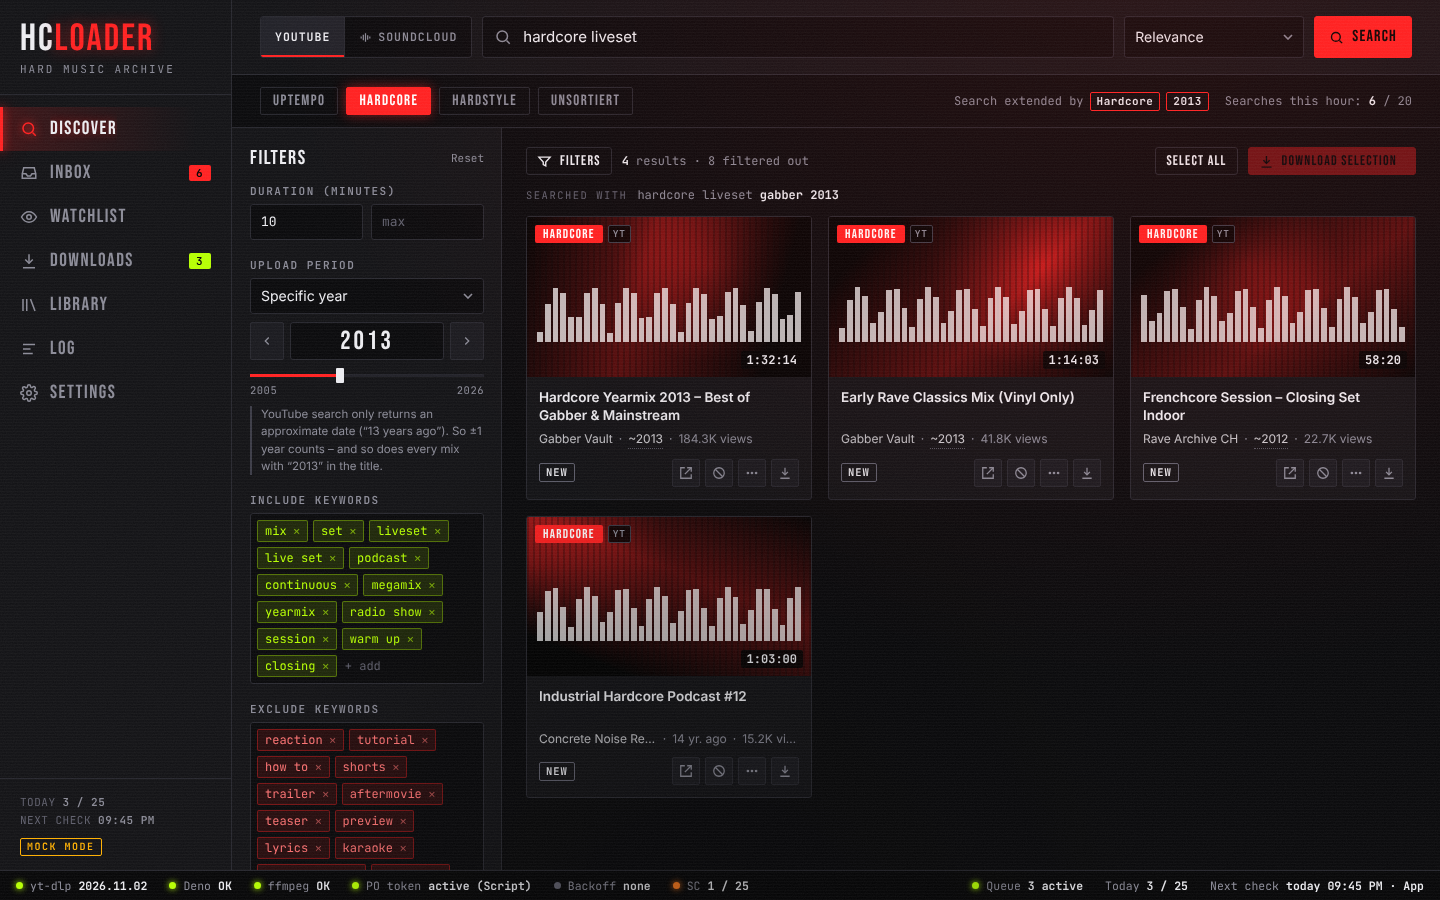
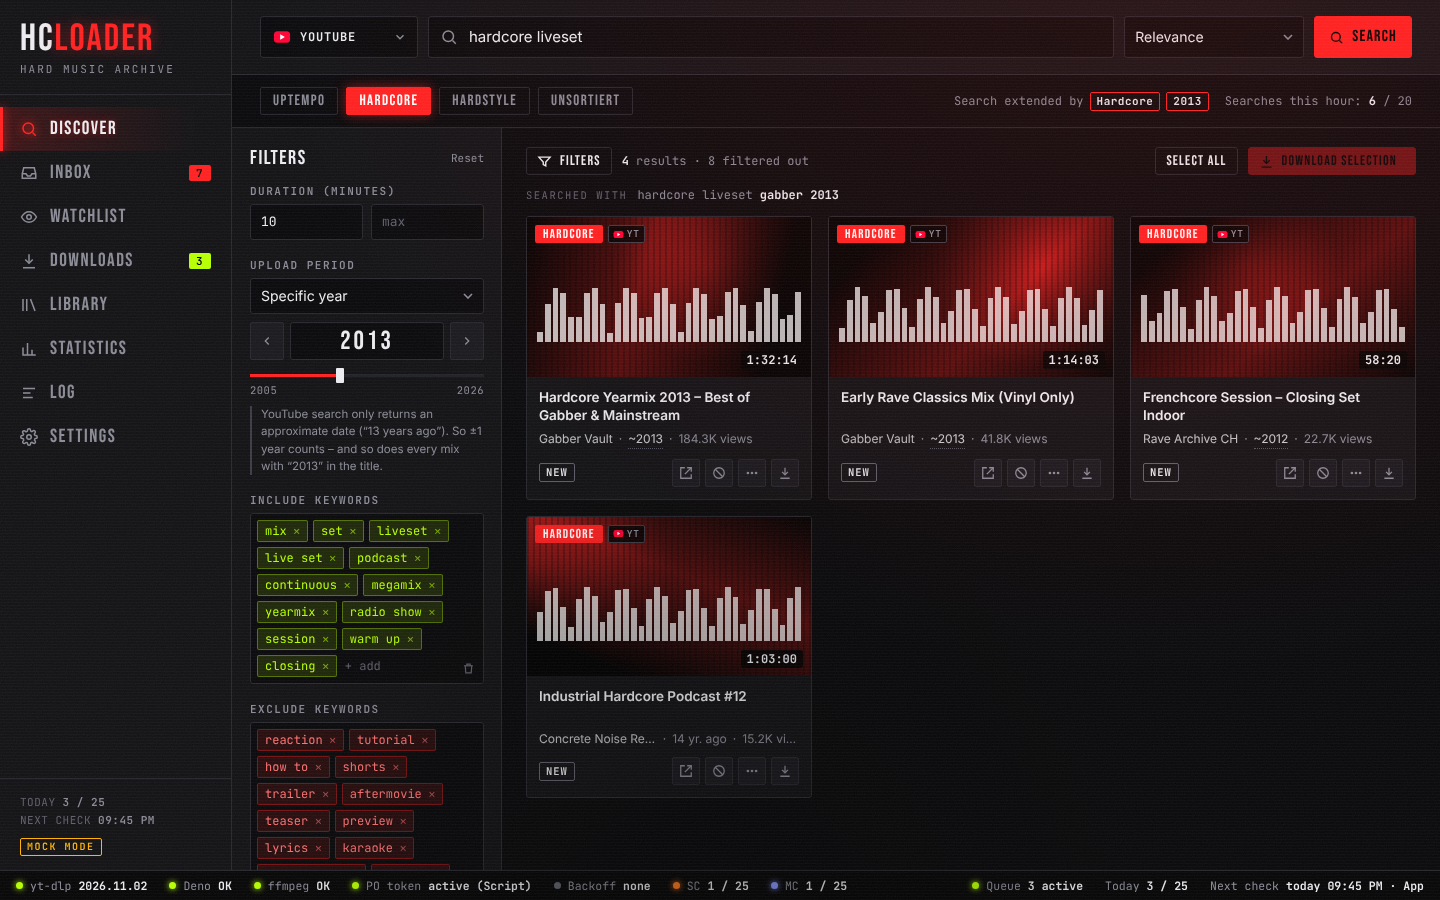
feat(ui): collapsible platform selector with "All", keyword clear/undo and suggestions
Discover: the platform tabs become a compact dropdown (logo + name, keyboard
accessible, remembered choice). "All" searches every enabled platform strictly
one after another through the per-platform search call, skips platforms in
backoff with a note and merges the hits with platform badges. Keyword boxes get
a "remove all" button with an undo toast and suggestion chips from the saved
settings. Platform logos are bundled locally; tests, screenshots and wiki updated.

Claude-Session: https://claude.ai/code/session_01ShQsUFch3Qm8jFDuGQkccp

diff --git a/ui/css/components.css b/ui/css/components.css
@@ -1930,7 +1930,7 @@ button.tk-time:hover,button.tk-time:focus-visible{border-color:var(--acid);backg
 .kwbox{position:relative}
 .kwbox .tags{padding-right:30px}
 .kw-clear{position:absolute;right:4px;bottom:4px;width:24px;height:24px;display:grid;place-items:center;background:none;border:1px solid transparent;border-radius:var(--radius-sm);
-  color:var(--dim);transition:color var(--t-fast),border-color var(--t-fast),background var(--t-fast)}
+  color:var(--muted);transition:color var(--t-fast),border-color var(--t-fast),background var(--t-fast)}
 .kw-clear[hidden]{display:none}
 .kw-clear svg{width:13px;height:13px;stroke:currentColor;fill:none;stroke-width:2.2}
 .kw-clear:hover,.kw-clear:focus-visible{color:var(--error);border-color:rgba(255,59,92,.45);background:rgba(255,59,92,.08);outline:none}
@@ -1950,3 +1950,6 @@ button.tk-time:hover,button.tk-time:focus-visible{border-color:var(--acid);backg
 body.reduced .picon{filter:grayscale(1) brightness(1.5) contrast(1.15)}
 @media (prefers-contrast:more),(forced-colors:active){.picon{filter:grayscale(1) brightness(1.5) contrast(1.15)}}
 @media (prefers-reduced-motion:reduce){.psel-list{animation:none}.psel-btn>svg{transition:none}}
+.thumb img.picon{position:static;inset:auto;width:11px;height:11px;object-fit:contain}
+.card.is-preview .thumb img.picon{filter:none}
+body.reduced .card.is-preview .thumb img.picon{filter:grayscale(1) brightness(1.5) contrast(1.15)}

diff --git a/tests/test_discover_ui.py b/tests/test_discover_ui.py
@@ -1,0 +1,206 @@
+"""Discover view in a real browser against the mock backend (Playwright/Chromium, skipped if
+unavailable): the collapsible platform selector (mouse + keyboard, remembered choice), «All»
+(one platform after another through the normal per-platform search call, never overlapping,
+platforms in backoff skipped with a note) and the keyword boxes (clear all with undo toast,
+suggestion chips from the saved settings). Every wait is on explicit state, never on timing."""
+
+from __future__ import annotations
+
+from test_festivals_ui import (
+    browser,  # noqa: F401  (fixture)
+    page,  # noqa: F401  (fixture)
+)
+
+# Record start and end of every mock search: ['start'|'end', platform].
+SPY = """
+window.__s = [];
+window.__saved = 0;
+{
+  const orig = HC.mock.api.search;
+  HC.mock.api.search = (q, o) => {
+    window.__s.push(['start', o.platform]);
+    return orig(q, o).then((r) => { window.__s.push(['end', o.platform]); return r; });
+  };
+  const save = HC.mock.api.save_settings;
+  HC.mock.api.save_settings = (...a) => { window.__saved++; return save(...a); };
+}
+HC.mock.speed.factor = 0.3;
+true;
+"""
+PLATFORM = "document.getElementById('v-discover').dataset.platform"
+FOCUSED = "document.activeElement && document.activeElement.dataset.p"
+
+
+def _discover(pg):
+    pg.evaluate(SPY)
+    pg.click('.nav-item[data-view="discover"]')
+    pg.wait_for_selector("#grid .card[data-id]")
+
+
+def _tags(pg, key):
+    return pg.evaluate(
+        f"[...document.querySelectorAll('#t-{key} .tag > span')].map((x) => x.textContent)"
+    )
+
+
+def _suggestions(pg, key):
+    return pg.evaluate(
+        f"[...document.querySelectorAll('#s-{key} .kw-sugg span')].map((x) => x.textContent)"
+    )
+
+
+def test_platform_selector_opens_selects_and_remembers(page):  # noqa: F811
+    _discover(page)
+    assert page.is_hidden("#plat-list")
+    assert page.get_attribute("#plat-btn", "aria-expanded") == "false"
+    assert page.inner_text("#plat-btn .psel-name").strip().lower() == "youtube"
+    assert page.get_attribute("#plat-btn", "aria-label") == "Platform: YouTube"
+    # every logo is a local file, never a favicon from the web
+    assert page.evaluate(
+        "[...document.querySelectorAll('#plat img')].every((i) => i.getAttribute('src')"
+        ".startsWith('icons/platforms/') && i.complete && i.naturalWidth > 0)"
+    )
+
+    page.click("#plat-btn")
+    page.wait_for_selector("#plat-list:not([hidden])")
+    assert page.get_attribute("#plat-btn", "aria-expanded") == "true"
+    assert page.evaluate(
+        "[...document.querySelectorAll('#plat-list [data-p]')].map((b) => b.dataset.p)"
+    ) == ["all", "youtube", "soundcloud", "mixcloud", "hearthis"]
+    assert page.get_attribute('#plat-list [data-p="youtube"]', "aria-selected") == "true"
+    page.click('#plat-list [data-p="mixcloud"]')
+    page.wait_for_function(f"{PLATFORM} === 'mixcloud'")
+    assert page.is_hidden("#plat-list")
+    assert page.inner_text("#plat-btn .psel-name").strip().lower() == "mixcloud"
+
+    # a click outside closes without changing the choice
+    page.click("#plat-btn")
+    page.wait_for_selector("#plat-list:not([hidden])")
+    page.click("#grid")
+    page.wait_for_selector("#plat-list", state="hidden")
+    assert page.evaluate(PLATFORM) == "mixcloud"
+
+    # remembered across a reload
+    page.reload()
+    page.wait_for_function("document.body.classList.contains('ready')")
+    page.click('.nav-item[data-view="discover"]')
+    page.wait_for_function(f"{PLATFORM} === 'mixcloud'")
+    assert page.inner_text("#plat-btn .psel-name").strip().lower() == "mixcloud"
+
+
+def test_platform_selector_keyboard(page):  # noqa: F811
+    _discover(page)
+    page.focus("#plat-btn")
+    page.keyboard.press("Enter")
+    page.wait_for_selector("#plat-list:not([hidden])")
+    assert page.evaluate(FOCUSED) == "youtube"  # focus starts on the current choice
+    page.keyboard.press("ArrowUp")
+    assert page.evaluate(FOCUSED) == "all"
+    page.keyboard.press("ArrowUp")  # wraps around
+    assert page.evaluate(FOCUSED) == "hearthis"
+    page.keyboard.press("Home")
+    assert page.evaluate(FOCUSED) == "all"
+    page.keyboard.press("End")
+    assert page.evaluate(FOCUSED) == "hearthis"
+    page.keyboard.press("Escape")
+    page.wait_for_selector("#plat-list", state="hidden")
+    assert page.evaluate("document.activeElement.id") == "plat-btn"
+    assert page.evaluate(PLATFORM) == "youtube"
+
+    page.keyboard.press("ArrowDown")  # opens as well
+    page.wait_for_selector("#plat-list:not([hidden])")
+    page.keyboard.press("ArrowDown")
+    assert page.evaluate(FOCUSED) == "soundcloud"
+    page.keyboard.press("Enter")
+    page.wait_for_function(f"{PLATFORM} === 'soundcloud'")
+    assert page.is_hidden("#plat-list")
+    assert page.evaluate("localStorage.getItem('hcl.discover.platform')") == "soundcloud"
+
+    # reduced effects: logos fall back to monochrome
+    page.evaluate("document.body.classList.add('reduced')")
+    assert "grayscale" in page.evaluate(
+        "getComputedStyle(document.querySelector('#plat-btn .picon')).filter"
+    )
+
+
+def test_all_searches_platforms_one_after_another(page):  # noqa: F811
+    _discover(page)
+    page.evaluate("HC.mock.demo.backoff(6, 'mixcloud')")
+    page.wait_for_function("!!HC.platform.backoff('mixcloud')")
+    page.click("#plat-btn")
+    page.click('#plat-list [data-p="all"]')
+    page.wait_for_function(f"{PLATFORM} === 'all'")
+    page.fill("#q", "hardcore mix")
+    page.click("#btn-search")
+    # progress names the platform that is being searched right now
+    page.wait_for_function(
+        "document.querySelector('#count').textContent.includes('Searching SoundCloud (2 of 4)')"
+    )
+    assert page.is_disabled("#plat-btn")
+    page.wait_for_function(
+        "!document.querySelector('#btn-search').disabled"
+        " && document.querySelector('#grid .card[data-id]')"
+    )
+    # strictly sequential: each call ends before the next starts; Mixcloud (backoff) is never asked
+    assert page.evaluate("window.__s") == [
+        ["start", "youtube"],
+        ["end", "youtube"],
+        ["start", "soundcloud"],
+        ["end", "soundcloud"],
+        ["start", "hearthis"],
+        ["end", "hearthis"],
+    ]
+    note = page.inner_text("#search-info .skipped")
+    assert "Skipped: Mixcloud (backoff until" in note
+    badges = set(
+        page.evaluate(
+            "[...document.querySelectorAll('#grid .card .pbadge')].map((b) => b.textContent.trim())"
+        )
+    )
+    assert {"YT", "SC", "HT"} <= badges and "MC" not in badges
+    assert page.evaluate(
+        "[...document.querySelectorAll('#grid .card .pbadge img')].every((i) => i.naturalWidth > 0)"
+    )
+    # merged in turns: the first hits come from different platforms
+    first = page.evaluate(
+        "[...document.querySelectorAll('#grid .card .pbadge')].slice(0, 3)"
+        ".map((b) => b.textContent.trim())"
+    )
+    assert len(set(first)) > 1
+
+
+def test_keyword_boxes_clear_undo_and_suggestions(page):  # noqa: F811
+    _discover(page)
+    saved = page.evaluate("HC.settings.values.filters.include_keywords")
+    assert len(saved) >= 2 and _tags(page, "inc") == saved
+    assert page.is_hidden("#s-inc")  # nothing missing -> no suggestions
+
+    # clear all: no modal, the undo toast brings everything back
+    page.click("#c-inc")
+    page.wait_for_selector(".toast .toast-act")
+    assert page.locator(".modal-back").count() == 0
+    assert _tags(page, "inc") == []
+    assert page.is_hidden("#c-inc")
+    assert _suggestions(page, "inc") == saved
+    page.click(".toast .toast-act")
+    page.wait_for_function("document.querySelectorAll('#t-inc .tag').length > 0")
+    assert _tags(page, "inc") == saved
+    assert page.is_hidden("#s-inc")
+
+    # a removed saved keyword is offered below the box and comes back on click
+    page.click("#t-inc .tag:first-child button")
+    page.wait_for_selector("#s-inc .kw-sugg")
+    assert _suggestions(page, "inc") == [saved[0]]
+    page.click("#s-inc .kw-sugg")
+    page.wait_for_selector("#s-inc", state="hidden")
+    assert sorted(_tags(page, "inc")) == sorted(saved)
+
+    # «add» keeps working; own keywords never become suggestions
+    page.fill("#t-exc input", "My Own Word")
+    page.press("#t-exc input", "Enter")
+    assert "my own word" in _tags(page, "exc")
+    page.click("#c-exc")
+    page.wait_for_function("document.querySelectorAll('#t-exc .tag').length === 0")
+    assert _suggestions(page, "exc") == page.evaluate("HC.settings.values.filters.exclude_keywords")
+    # session filter only: the saved settings were never written
+    assert page.evaluate("window.__saved") == 0

diff --git a/tests/test_reupload_ui.py b/tests/test_reupload_ui.py
@@ -36,20 +36,27 @@ def _library(pg):
     pg.wait_for_selector(f'#lib-body tr[data-id="{REUP}"] .ru-tag')
 
 
+def _pick(pg, plat):
+    """Open the collapsible platform selector and choose an entry."""
+    pg.click("#plat-btn")
+    pg.click(f'#plat-list [data-p="{plat}"]')
+
+
 def test_platform_switch_searches_mixcloud_and_hearthis(page):  # noqa: F811
     page.evaluate(SPY)
     page.click('.nav-item[data-view="discover"]')
-    page.wait_for_selector('#plat [data-p="hearthis"]')
+    page.wait_for_selector('#plat-list [data-p="hearthis"]', state="attached")
     assert page.evaluate(
-        "[...document.querySelectorAll('#plat button')].map((b) => b.textContent.trim())"
+        "[...document.querySelectorAll('#plat-list [data-p] .psel-name')].map((b) => b.textContent.trim())"
     ) == [
+        "All",
         "YouTube",
         "SoundCloud",
         "Mixcloud",
         "hearthis.at",
     ]
     for plat, prefix in (("mixcloud", "mc:"), ("hearthis", "ht:")):
-        page.click(f'#plat [data-p="{plat}"]')
+        _pick(page, plat)
         page.wait_for_function(
             "p => document.getElementById('v-discover').dataset.platform === p", arg=plat
         )
@@ -67,7 +74,7 @@ def test_platform_switch_searches_mixcloud_and_hearthis(page):  # noqa: F811
         badge = page.locator("#grid .card .pbadge").first
         assert badge.inner_text().strip() == {"mixcloud": "MC", "hearthis": "HT"}[plat]
     # a Mixcloud Select upload is never loadable and says why
-    page.click('#plat [data-p="mixcloud"]')
+    _pick(page, "mixcloud")
     page.uncheck("#f-hide")
     page.wait_for_selector('#grid .card[data-id="mc:DJ_Thera_select-exclusive-mix"] .cnote.prev')
     assert "Subscribers only" in page.inner_text(
@@ -89,7 +96,9 @@ def test_disabled_platform_is_off_in_switch_and_hidden_in_status_bar(page):  # n
     page.wait_for_function("!HC.platform.enabled('mixcloud')")
     page.wait_for_selector("#sb-mc-it[hidden]", state="attached")
     page.click('.nav-item[data-view="discover"]')
-    page.wait_for_selector('#plat [data-p="mixcloud"].off[aria-disabled="true"]')
+    page.wait_for_selector(
+        '#plat-list [data-p="mixcloud"].off[aria-disabled="true"]', state="attached"
+    )
     page.dispatch_event(
         '#plat [data-p="mixcloud"]', "click"
     )  # aria-disabled: Playwright would refuse

diff --git a/scripts/ui_screenshots.py b/scripts/ui_screenshots.py
@@ -189,6 +189,8 @@ class Shooter:
         and the keyword boxes (clear all with undo toast, suggestion chips)."""
         page = self.page
         page.evaluate("HC.mock.api.clear_backoff(); HC.mock.demo.local(null)")
+        if self.reduced:  # earlier scenes re-apply the saved appearance
+            page.evaluate("document.body.classList.add('reduced')")
         self.go("discover")
         page.click("#f-reset")
         page.click("#plat-btn")
@@ -210,6 +212,7 @@ class Shooter:
         # keyword boxes: one removed keyword comes back as a suggestion chip
         page.click("#t-inc .tag:nth-child(2) button")
         page.click("#t-exc .tag:nth-child(1) button")
+        page.evaluate("document.activeElement.blur()")
         self.settle()
         self.shot("discover-all")
         page.click("#plat-btn")

diff --git a/tests/test_collector_ui.py b/tests/test_collector_ui.py
@@ -274,7 +274,13 @@ def test_inline_edit_add_row_and_escaping(page):
     assert _calls(page, "add_checklist_row")[-1][1]["artist"] == evil
     new = page.locator(f"{ROWS}:last-child")
     assert new.locator(".co-dj b").inner_text() == evil
-    assert page.locator("#lib-collector img, #toasts img").count() == 0
+    # the only images are the bundled platform logos (local files, no handlers)
+    assert page.locator("#lib-collector img:not(.picon), #toasts img").count() == 0
+    assert page.evaluate(
+        "[...document.querySelectorAll('#lib-collector img.picon')].every((i) =>"
+        " /^icons\\/platforms\\/[a-z]+\\.svg$/.test(i.getAttribute('src'))"
+        " && !i.hasAttribute('onerror'))"
+    )
     assert page.evaluate("window.__xss") == 0
     assert "Added by hand" in new.inner_text()
 

diff --git a/docs/wiki/Discover-and-Search.md b/docs/wiki/Discover-and-Search.md
@@ -14,6 +14,14 @@
 - A year filter can append the year to the query (setting *append_year*, default on).
 - Searches count against the hourly search limit (default 20 per hour). The counter is shown next
   to the chips.
+- The **platform selector** left of the search field shows the current choice (logo and name);
+  click it, or press Enter or the arrow keys, to open the list. Esc or a click outside closes it.
+  The last choice is remembered. Platforms that are turned off in the settings are greyed out.
+- **All** searches every enabled platform, strictly one after another through the normal search of
+  each platform. Every platform keeps its own pauses and its own hourly search limit, so one search
+  on "All" counts once per platform. A platform in backoff (or one that does not answer) is skipped
+  and named in a small note above the results. The hits are merged in turns (first hit of each
+  platform, then the second, …) and carry a platform badge; sorting works as usual.
 
 ## Filters
 
@@ -30,6 +38,11 @@ can override them temporarily here.
 | Hide downloaded and ignored | On by default. |
 | Apply channel blacklist | On by default. |
 | Sorting | Relevance, newest first, longest first, most views. |
+
+The keyword boxes are a **session filter**: they start with the keywords saved under Settings,
+Filters & keywords, and nothing you change here is saved. The small bin icon at the bottom right of
+a box removes all its keywords at once (the toast offers **Undo**). Saved keywords that are missing
+from a box are offered below it as faint "+ keyword" chips; a click adds them again.
 
 Keyword matching is case-insensitive, on word boundaries, with umlauts and accents normalized. By
 default only the title is checked; the description is optional (*match_description*) because flat

diff --git a/docs/wiki/Supported-Sources.md b/docs/wiki/Supported-Sources.md
@@ -77,6 +77,13 @@ and an item is often a whole concert with many files. It may come back once that
 Every source has its own terms. You are responsible for following them. HCLoader keeps the load low,
 but it does not change what you are allowed to do.
 
+## Names and logos
+
+YouTube, SoundCloud, Mixcloud and hearthis.at are trademarks of their respective owners. HCLoader
+shows their names and small simplified marks (drawn for this app, bundled locally under
+`ui/icons/platforms/`, never loaded from the web) only to identify the services. HCLoader is not
+affiliated with, endorsed by or sponsored by any of them.
+
 ---
 
 [← Scheduled checks](Scheduled-Checks) · [🏠 Home](Home) · [Settings reference →](Settings-Reference)
